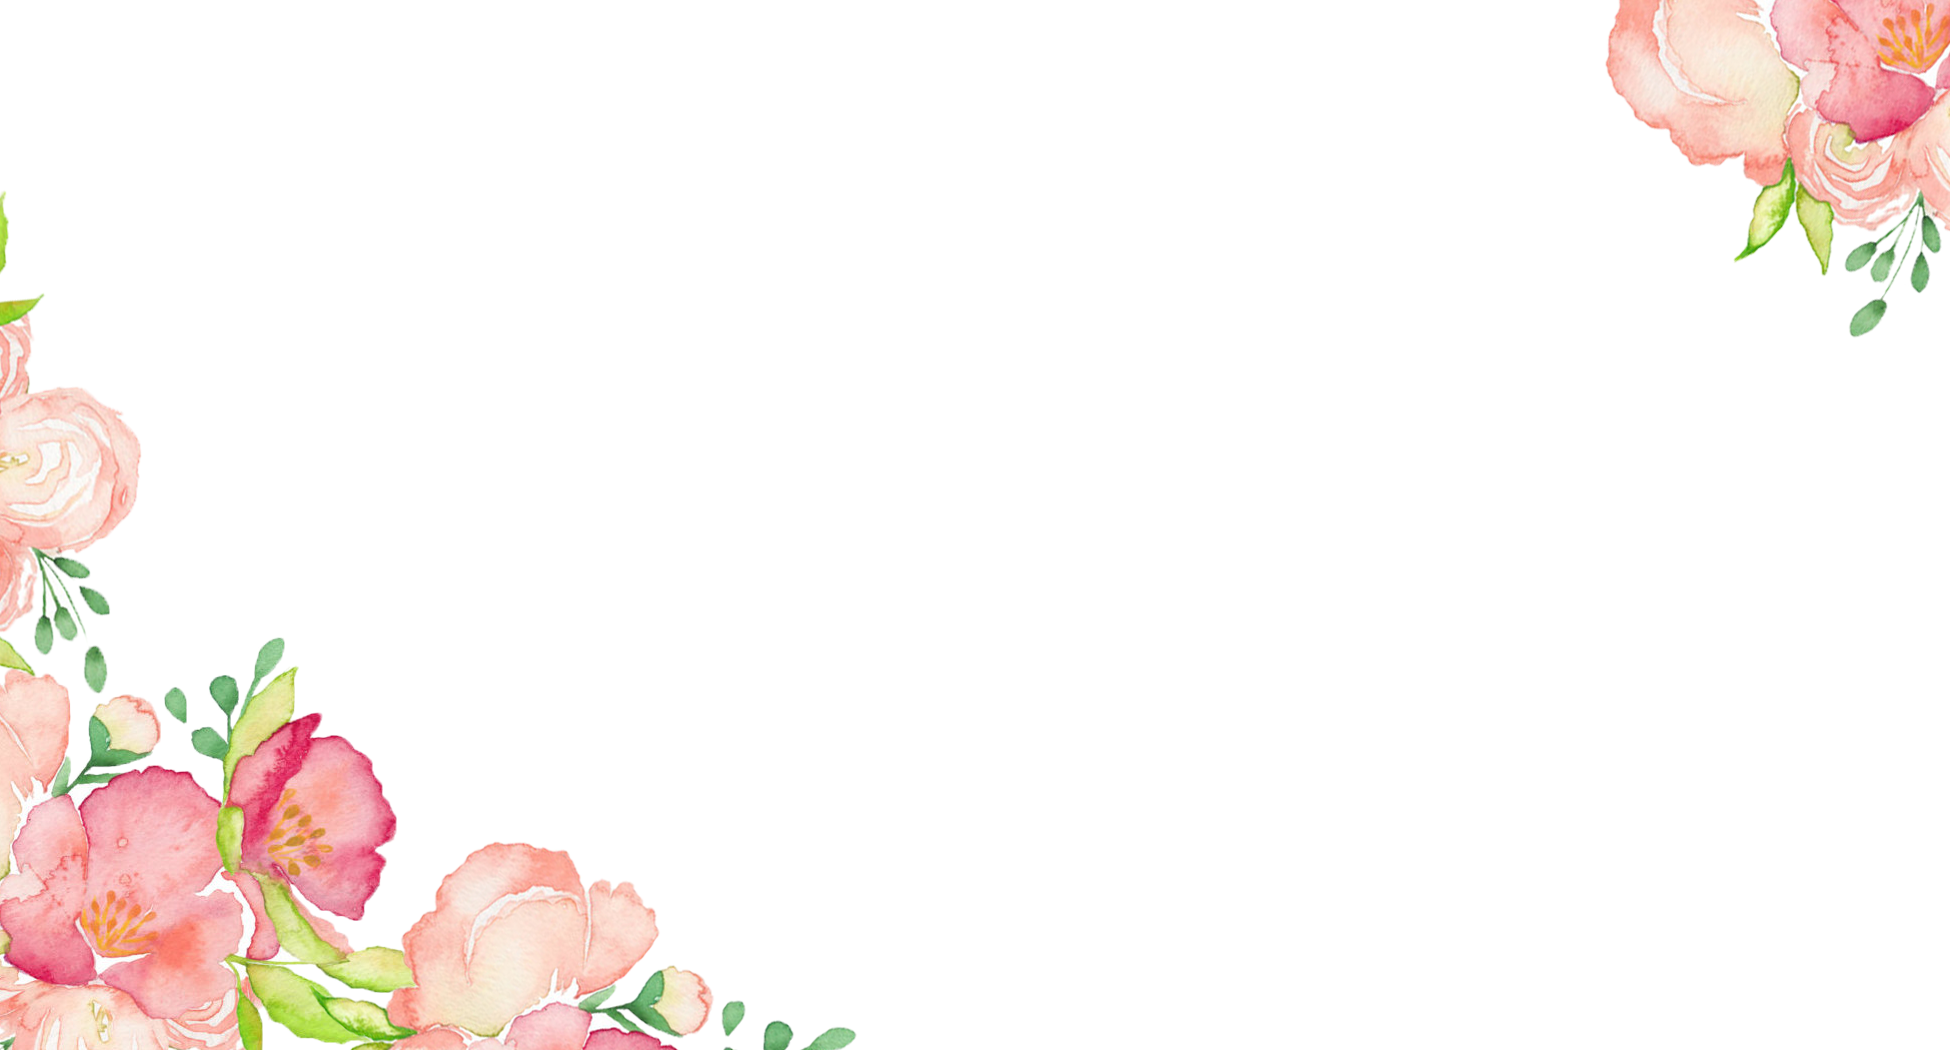
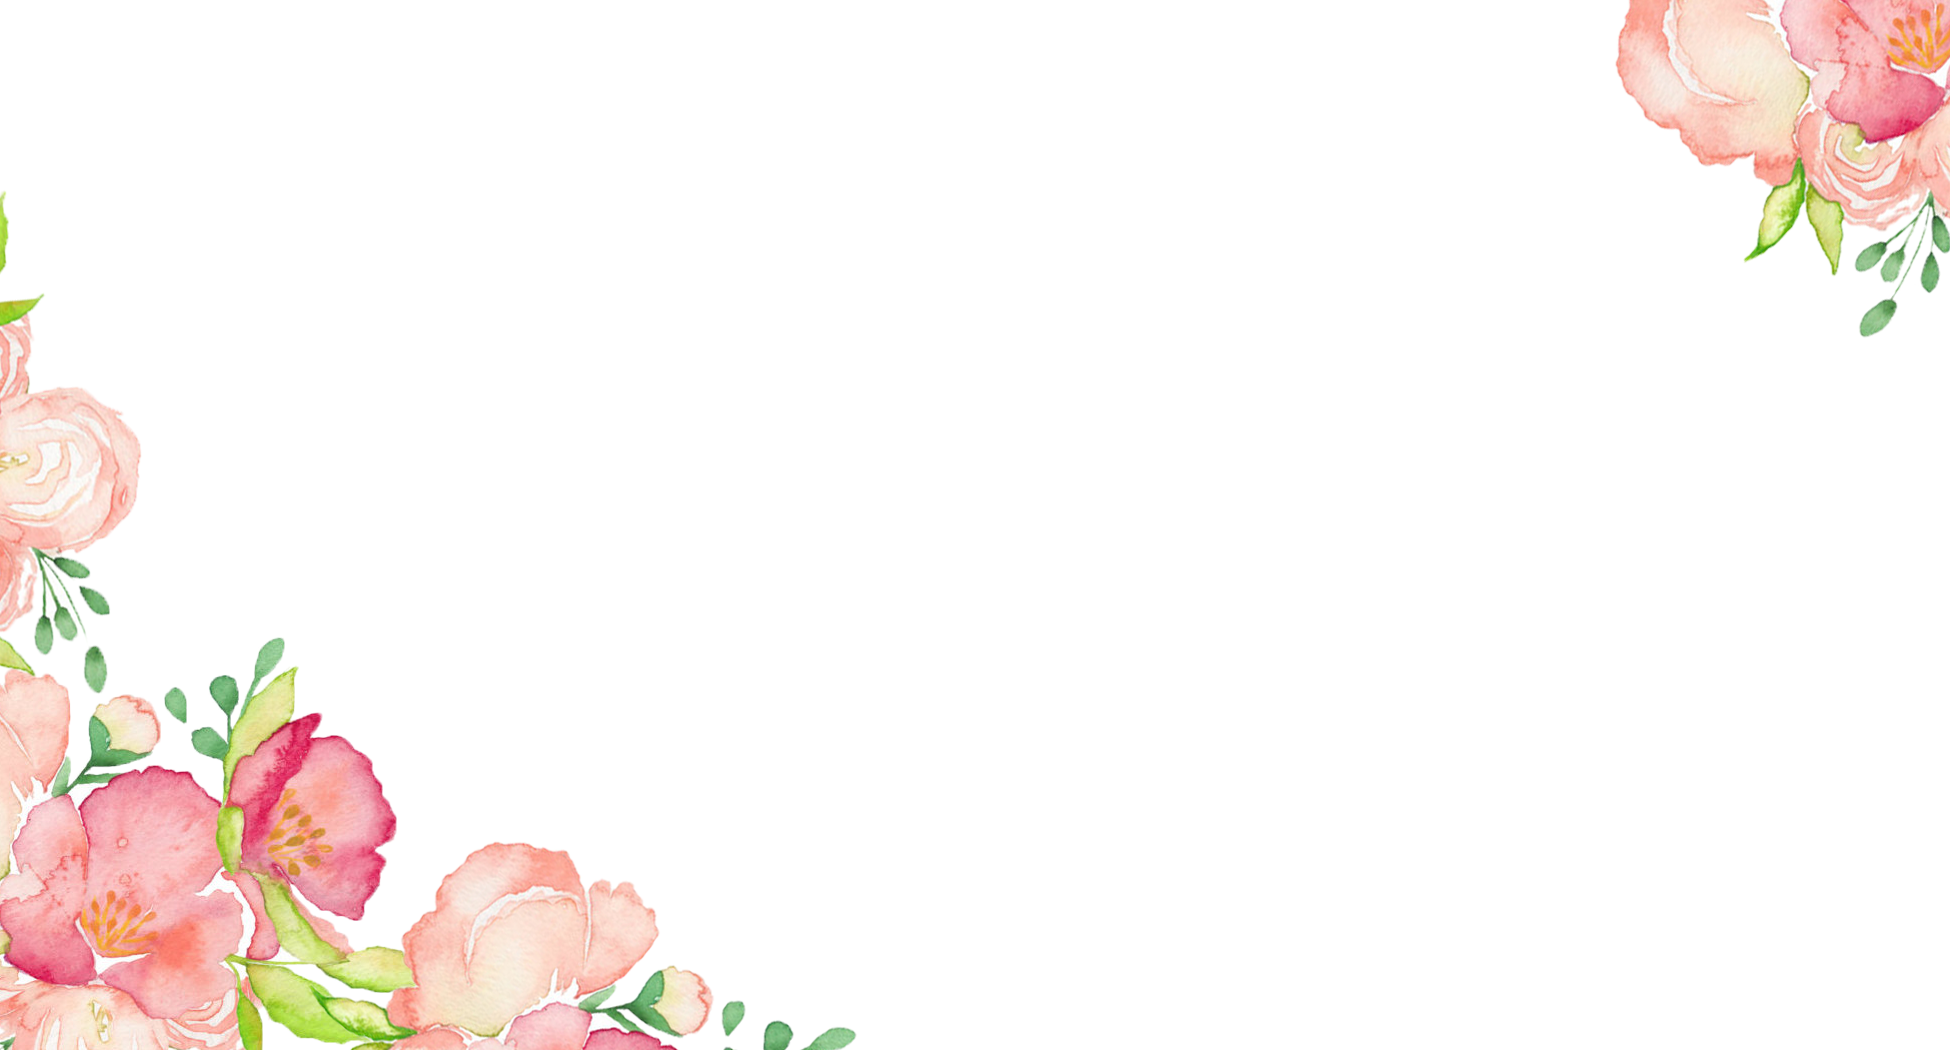
BG

Changed region(s): [[0.8, 0.0, 1.0, 0.3352]]

diff --git a/nailtips.html b/nailtips.html
@@ -5,10 +5,11 @@
    <link rel="shortcut icon" href="image/favicon2.ico" type="image/x-icon" />
 
 <style>
+    
 body {
-    background-image: url("image/BG.png"); 
+    background-image: url("image/Wallpaper5.png"); 
     background-color: #ffffff;
-    background-repeat: repeat;
+    background-repeat: no-repeat;
 }
     
 h1 {

diff --git a/clientsfave.html b/clientsfave.html
@@ -5,10 +5,11 @@
    <link rel="shortcut icon" href="image/favicon2.ico" type="image/x-icon" />
 
 <style>
+
 body {
-    background-image: url("image/BG.png"); 
+    background-image: url("image/Wallpaper5.png"); 
     background-color: #ffffff;
-    background-repeat: repeat;
+    background-repeat: no-repeat;
 }
     
 h1 {

diff --git a/selfnail.html b/selfnail.html
@@ -5,10 +5,11 @@
    <link rel="shortcut icon" href="image/favicon2.ico" type="image/x-icon" />
 
 <style>
+
 body {
-    background-image: url("image/BG.png"); 
+    background-image: url("image/Wallpaper5.png"); 
     background-color: #ffffff;
-    background-repeat: repeat;
+    background-repeat: no-repeat;
 }
     
 h1 {
